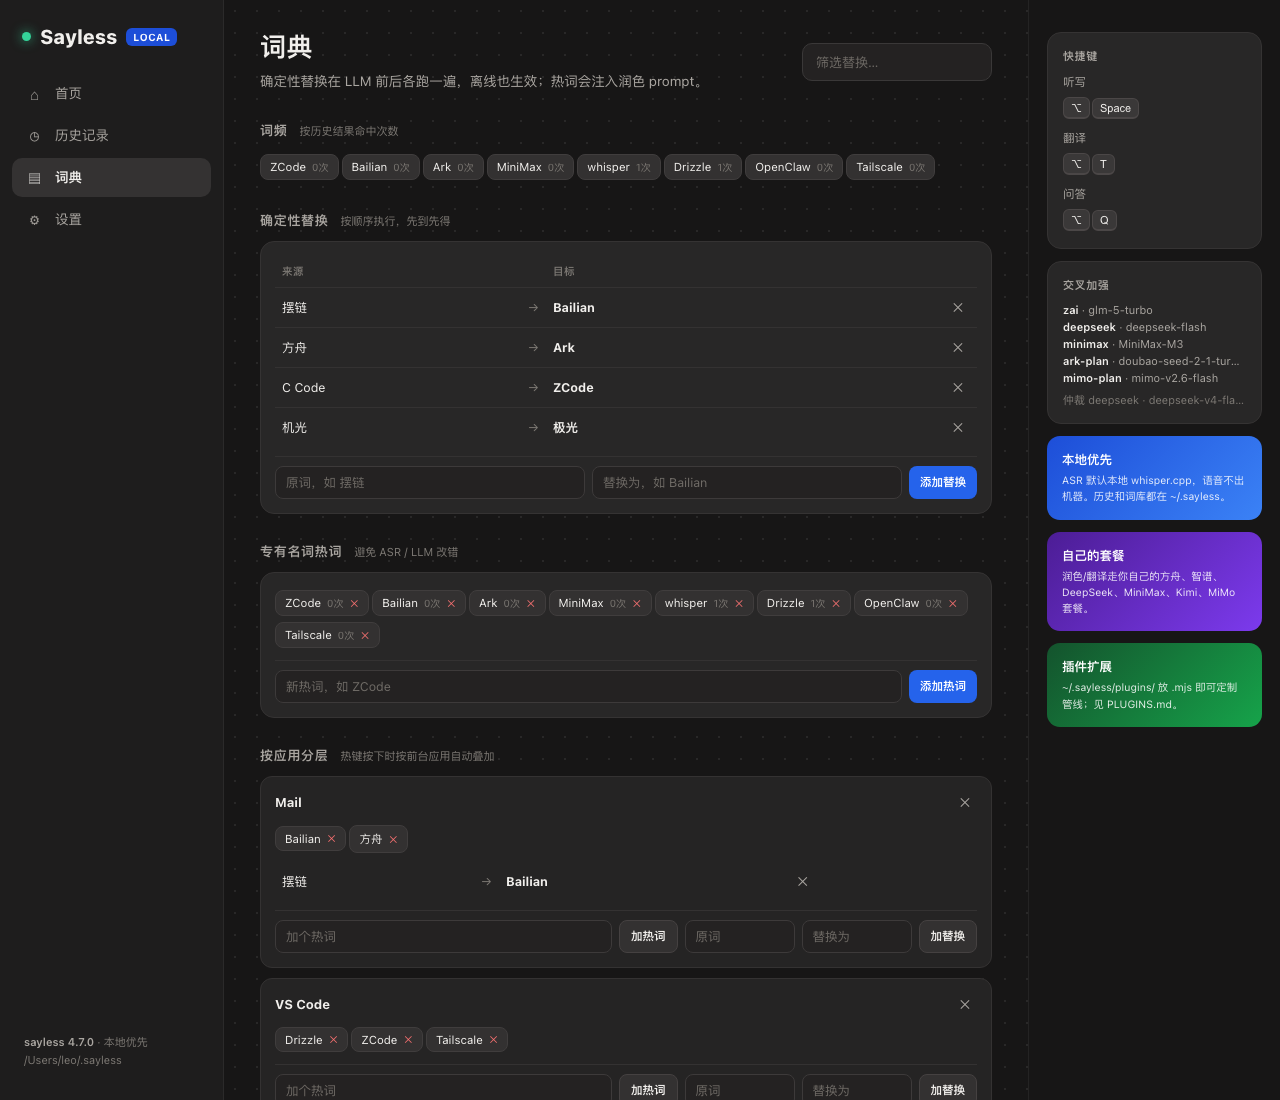
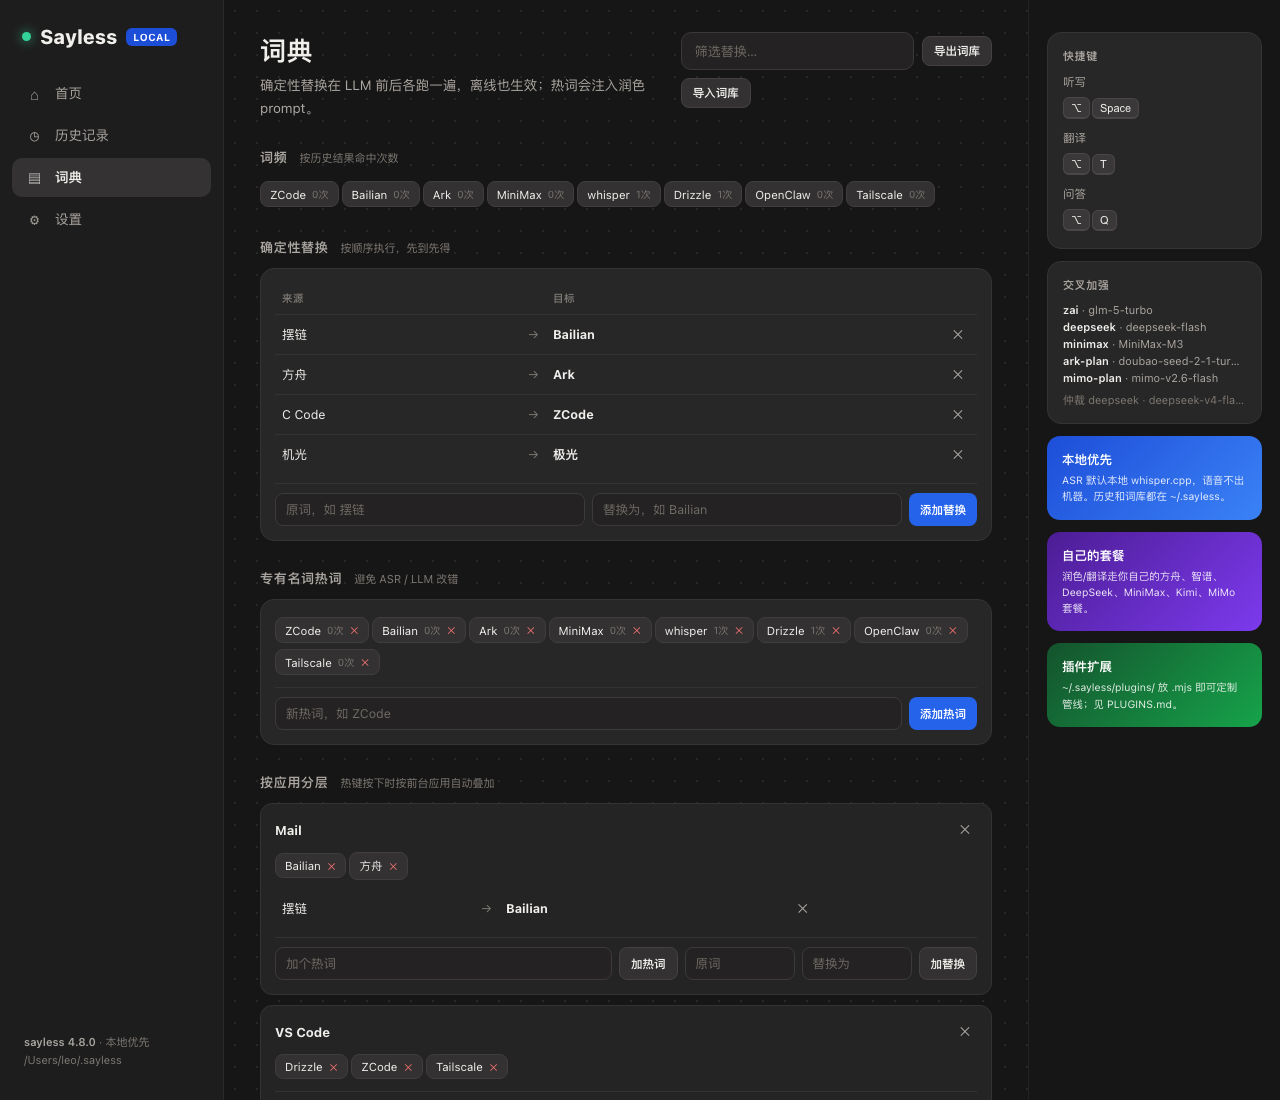
v4.8.0: dictionary/history import-export, JSON dict import
- hub: dictionary export/import (JSON, merge, validation via native file panels) and full-history export
- hub: import/export use native hubActionResult; invalid/cancelled writes never fake success
- CLI: sayless dict import auto-detects JSON and merges with validation; text import unchanged
- tests: 70 integration tests incl. JSON dictionary import and hub import/export buttons
- docs/screenshots/version 4.8.0

diff --git a/app/SaylessBar.swift b/app/SaylessBar.swift
@@ -1,4 +1,4 @@
-// SaylessBar v4.7 — Typeless 式 UI：菜单栏 + 录音胶囊浮窗 + 数据驱动 hub（首页/历史/词典/设置）。
+// SaylessBar v4.8 — Typeless 式 UI：菜单栏 + 录音胶囊浮窗 + 数据驱动 hub（首页/历史/词典/设置）。
 // 设计：暗色 HUD 胶囊 440×52 底部居中；录音=实时 15 根电平条；处理=Thinking；完成=✓+文本预览自隐。
 import AppKit
 import Carbon.HIToolbox
@@ -7,6 +7,7 @@ import WebKit
 import ApplicationServices
 import ServiceManagement
 import UserNotifications
+import UniformTypeIdentifiers
 
 
 
@@ -327,7 +328,7 @@ final class CapsulePanel {
 
 
 // ---------- 共享路径 / 工具 ----------
-let appVersion = (Bundle.main.infoDictionary?["CFBundleShortVersionString"] as? String) ?? "4.7.0"
+let appVersion = (Bundle.main.infoDictionary?["CFBundleShortVersionString"] as? String) ?? "4.8.0"
 let functionKeyCodes: Set<UInt32> = [122, 120, 99, 118, 96, 97, 98, 100, 101, 109, 103, 111] // F1-F12
 let saylessConfigFile = saylessDataDir + "/config.json"
 let saylessDictFile = saylessDataDir + "/dictionary.json"
@@ -852,6 +853,146 @@ final class HubWindow: NSObject {
         DispatchQueue.main.asyncAfter(deadline: .now() + delay) { [weak self] in self?.refresh() }
     }
 
+    private func dateStamp() -> String {
+        let f = DateFormatter()
+        f.locale = Locale(identifier: "en_US_POSIX")
+        f.dateFormat = "yyyy-MM-dd"
+        return f.string(from: Date())
+    }
+
+    private func askSaveURL(title: String, defaultName: String) -> URL? {
+        let panel = NSSavePanel()
+        panel.title = title
+        panel.nameFieldStringValue = defaultName
+        panel.allowedContentTypes = [.json]
+        panel.canCreateDirectories = true
+        NSApp.activate(ignoringOtherApps: true)
+        return panel.runModal() == .OK ? panel.url : nil
+    }
+
+    private func askOpenURL(title: String) -> URL? {
+        let panel = NSOpenPanel()
+        panel.title = title
+        panel.allowedContentTypes = [.json]
+        panel.allowsMultipleSelection = false
+        panel.canChooseDirectories = false
+        panel.canChooseFiles = true
+        NSApp.activate(ignoringOtherApps: true)
+        return panel.runModal() == .OK ? panel.url : nil
+    }
+
+    private func exportDictionary() -> (Bool, String) {
+        guard FileManager.default.fileExists(atPath: saylessDictFile) else { return (false, "词库文件不存在") }
+        guard let url = askSaveURL(title: "导出词库", defaultName: "sayless-dictionary-\(dateStamp()).json") else {
+            return (false, "已取消导出")
+        }
+        guard let data = FileManager.default.contents(atPath: saylessDictFile) else { return (false, "读取词库失败") }
+        guard writeData(data, to: url.path) else { return (false, "写入导出文件失败") }
+        return (true, "已导出词库 → \(url.lastPathComponent)")
+    }
+
+    private func exportHistory() -> (Bool, String) {
+        guard let url = askSaveURL(title: "导出听写历史", defaultName: "sayless-history-\(dateStamp()).json") else {
+            return (false, "已取消导出")
+        }
+        let entries = readHistoryObjects()
+        guard JSONSerialization.isValidJSONObject(entries),
+              let data = try? JSONSerialization.data(withJSONObject: entries, options: [.prettyPrinted, .sortedKeys]) else {
+            return (false, "序列化历史失败")
+        }
+        guard writeData(data, to: url.path) else { return (false, "写入导出文件失败") }
+        return (true, "已导出 \(entries.count) 条历史 → \(url.lastPathComponent)")
+    }
+
+    private func validateDictionary(_ src: [String: Any]) -> String? {
+        let known = ["replacements", "hotwords", "styleRules", "apps"]
+        guard known.contains(where: { src[$0] != nil }) else { return "不是 sayless 词库 JSON（缺少 replacements/hotwords/styleRules/apps）" }
+        if let raw = src["replacements"] {
+            guard let arr = raw as? [[String: Any]] else { return "replacements 必须是对象数组" }
+            for (i, r) in arr.enumerated() {
+                guard let to = r["to"] as? String else { return "replacements[\(i)] 缺少字符串 to" }
+                _ = to
+                if let from = r["from"] as? String, !from.isEmpty { continue }
+                if let pattern = r["pattern"] as? String, !pattern.isEmpty {
+                    if (try? NSRegularExpression(pattern: pattern)) == nil { return "replacements[\(i)] 正则无效：\(pattern)" }
+                    continue
+                }
+                return "replacements[\(i)] 需要非空 from 或 pattern"
+            }
+        }
+        if let raw = src["hotwords"], !(raw is [String]) { return "hotwords 必须是字符串数组" }
+        if let raw = src["styleRules"], !(raw is [String]) { return "styleRules 必须是字符串数组" }
+        if let raw = src["apps"] {
+            guard let apps = raw as? [String: Any] else { return "apps 必须是对象" }
+            for (app, value) in apps {
+                guard let layer = value as? [String: Any] else { return "apps.\(app) 必须是对象" }
+                if let h = layer["hotwords"], !(h is [String]) { return "apps.\(app).hotwords 必须是字符串数组" }
+                if let rules = layer["styleRules"], !(rules is [String]) { return "apps.\(app).styleRules 必须是字符串数组" }
+                if let reps = layer["replacements"], !(reps is [[String: Any]]) { return "apps.\(app).replacements 必须是对象数组" }
+            }
+        }
+        return nil
+    }
+
+    private func mergeDictionary(_ dst: inout [String: Any], _ src: [String: Any]) -> (rep: Int, hot: Int, rules: Int, apps: Int) {
+        var rep = 0, hot = 0, rules = 0, appsChanged = 0
+        var existingReps = (dst["replacements"] as? [[String: Any]]) ?? []
+        for r in (src["replacements"] as? [[String: Any]]) ?? [] {
+            let key = (r["from"] as? String) ?? (r["pattern"] as? String) ?? ""
+            existingReps.removeAll { (($0["from"] as? String) ?? ($0["pattern"] as? String) ?? "") == key }
+            existingReps.append(r)
+            rep += 1
+        }
+        dst["replacements"] = existingReps
+        var existingHot = (dst["hotwords"] as? [String]) ?? []
+        for w in (src["hotwords"] as? [String]) ?? [] where !existingHot.contains(w) {
+            existingHot.append(w); hot += 1
+        }
+        dst["hotwords"] = existingHot
+        var existingRules = (dst["styleRules"] as? [String]) ?? []
+        for rule in (src["styleRules"] as? [String]) ?? [] where !existingRules.contains(rule) {
+            existingRules.append(rule); rules += 1
+        }
+        dst["styleRules"] = existingRules
+        var dstApps = (dst["apps"] as? [String: Any]) ?? [:]
+        for (app, value) in (src["apps"] as? [String: Any]) ?? [:] {
+            guard let srcLayer = value as? [String: Any] else { continue }
+            var layer = (dstApps[app] as? [String: Any]) ?? [:]
+            var layerReps = (layer["replacements"] as? [[String: Any]]) ?? []
+            for r in (srcLayer["replacements"] as? [[String: Any]]) ?? [] {
+                let key = (r["from"] as? String) ?? (r["pattern"] as? String) ?? ""
+                layerReps.removeAll { (($0["from"] as? String) ?? ($0["pattern"] as? String) ?? "") == key }
+                layerReps.append(r)
+            }
+            layer["replacements"] = layerReps
+            var layerHot = (layer["hotwords"] as? [String]) ?? []
+            for w in (srcLayer["hotwords"] as? [String]) ?? [] where !layerHot.contains(w) { layerHot.append(w) }
+            layer["hotwords"] = layerHot
+            var layerRules = (layer["styleRules"] as? [String]) ?? []
+            for rule in (srcLayer["styleRules"] as? [String]) ?? [] where !layerRules.contains(rule) { layerRules.append(rule) }
+            layer["styleRules"] = layerRules
+            dstApps[app] = layer
+            appsChanged += 1
+        }
+        dst["apps"] = dstApps
+        return (rep, hot, rules, appsChanged)
+    }
+
+    private func importDictionary() -> (Bool, String) {
+        guard let url = askOpenURL(title: "导入词库（合并）") else { return (false, "已取消导入") }
+        guard let data = try? Data(contentsOf: url),
+              let obj = (try? JSONSerialization.jsonObject(with: data)) as? [String: Any] else {
+            return (false, "导入文件不是合法 JSON 对象")
+        }
+        if let err = validateDictionary(obj) { return (false, err) }
+        guard var dst = writableJSON(saylessDictFile) else {
+            return (false, "dictionary.json 已损坏，拒绝覆盖；请先修复或备份")
+        }
+        let counts = mergeDictionary(&dst, obj)
+        guard writeJSONObject(dst, to: saylessDictFile) else { return (false, "写入词库失败（检查权限）") }
+        return (true, "已合并：\(counts.rep) 替换 / \(counts.hot) 热词 / \(counts.rules) 规则 / \(counts.apps) 应用层")
+    }
+
     /// 首次使用：在 App 内运行内置 CLI 的 init，生成 config.json / dictionary.json
     private func runInitConfig() {
         guard !initializingConfig else { return }
@@ -1174,6 +1315,19 @@ extension HubWindow: WKScriptMessageHandler {
             } else {
                 reply(false, "历史写入失败（检查 history.jsonl 权限）")
             }
+
+        case "exportDict":
+            let r = exportDictionary()
+            reply(r.0, r.1)
+
+        case "importDict":
+            let r = importDictionary()
+            reply(r.0, r.1)
+            if r.0 { scheduleRefresh() }
+
+        case "exportHistory":
+            let r = exportHistory()
+            reply(r.0, r.1)
 
         case "runDoctor":
             runDoctor()

diff --git a/app/hub.html b/app/hub.html
@@ -324,7 +324,10 @@ kbd{display:inline-block;background:#3a3838;border:1px solid #4b4747;border-bott
   <div class="tab" id="t1">
     <div class="page-head">
       <div><h1 class="small">历史记录</h1><div class="sub">听写、翻译和问答结果都只保存在本机。</div></div>
-      <button class="btn ghost mini" data-act="clear-history">清空历史</button>
+      <div style="display:flex;gap:8px;flex-wrap:wrap">
+        <button class="btn ghost mini" data-act="export-history">导出历史</button>
+        <button class="btn ghost mini" data-act="clear-history">清空历史</button>
+      </div>
     </div>
     <div class="toolbar">
       <input class="search" id="hist-search" placeholder="搜索原文、结果、应用或模式…" autocomplete="off">
@@ -337,7 +340,11 @@ kbd{display:inline-block;background:#3a3838;border:1px solid #4b4747;border-bott
   <div class="tab" id="t2">
     <div class="page-head">
       <div><h1 class="small">词典</h1><div class="sub">确定性替换在 LLM 前后各跑一遍，离线也生效；热词会注入润色 prompt。</div></div>
-      <div class="dict-tools"><input class="search" id="dict-filter" placeholder="筛选替换…" style="min-width:190px"></div>
+      <div class="dict-tools">
+        <input class="search" id="dict-filter" placeholder="筛选替换…" style="min-width:190px">
+        <button class="btn ghost mini" data-act="export-dict">导出词库</button>
+        <button class="btn ghost mini" data-act="import-dict">导入词库</button>
+      </div>
     </div>
 
     <h2 class="sec">词频 <span class="note">按历史结果命中次数</span></h2>
@@ -1265,6 +1272,9 @@ document.addEventListener('click', function (e) {
   if (act === 'save-settings') return saveSettings();
   if (act === 'save-key') return saveKey();
   if (act === 'run-doctor') return runDoctor();
+  if (act === 'export-dict') { post({ action: 'exportDict' }); return; }
+  if (act === 'import-dict') { post({ action: 'importDict' }); return; }
+  if (act === 'export-history') { post({ action: 'exportHistory' }); return; }
   if (act === 'add-cross') {
     var models = collectCross(); models.push({ provider: PROVIDERS[0] || '', model: '' }); renderCross(models); return;
   }

diff --git a/README.md b/README.md
@@ -2,7 +2,7 @@
 
 > ⚠ **声明**：本项目是对 Typeless 应用进行**逆向工程的学习项目**，交互形态按 1:1 复刻仅作学习研究之用，**切勿用于任何商业用途**（详见 [LICENSE](LICENSE)）。与 Typeless 原开发者无任何隶属或授权关系。
 
-**本地优先的中文语音听写 / 翻译 / 问答管线**——录音 → 语音识别 → 词语库 → 多模型润色 → 粘贴进焦点应用，配上一个 Typeless 风格的菜单栏 App。当前版本 **v4.7.0**（见 [CHANGELOG](CHANGELOG.md)）。
+**本地优先的中文语音听写 / 翻译 / 问答管线**——录音 → 语音识别 → 词语库 → 多模型润色 → 粘贴进焦点应用，配上一个 Typeless 风格的菜单栏 App。当前版本 **v4.8.0**（见 [CHANGELOG](CHANGELOG.md)）。
 
 干净的自研实现（不含任何第三方听写应用代码），模型走**你自己的套餐**，词语库和听写历史全部本地。
 
@@ -129,7 +129,7 @@ SAYLESS_SIGN=adhoc BUILD_ONLY=1 ./build.sh   # 跳过钥匙串里的持久证书
 | `sayless ask "<问题>"` | Bing CN + DuckDuckGo 检索 → 带 [n] 引用的回答；`--say` 先录音，`--no-search` 跳过联网 |
 | `sayless transcribe <wav>` | 转写→润色→粘贴，App 外壳复用此命令；`--force` 绕过短语音守卫 |
 | `sayless insert "<text>"` | 手动粘贴任意文本进焦点应用（默认 1.6s 后恢复剪贴板） |
-| `sayless dict add\|del\|add-hot\|del-hot\|import\|stats\|export\|validate` | 词语库管理；`import` 支持每行 `a=>b` 或纯热词；`app-add-hot` / `app-add-replace` 管理分应用词层 |
+| `sayless dict add\|del\|add-hot\|del-hot\|import\|stats\|export\|validate` | 词语库管理；`import` 支持每行 `a=>b`、纯热词，或 `dict export` 产出的 JSON（自动合并）；`app-add-hot` / `app-add-replace` 管理分应用词层 |
 | `sayless learn "<原文>" "<改稿>"` | LCS 智能 diff 自动生成替换规则；`--last` 对比上一条；`--mine [--apply]` 挖掘并回写高频修正；`--dry-run` 不落盘 |
 | `sayless history [-n 20] [--json] [--search q] [--delete n\|ts] [--clear --force] [--export file]` | 历史查看、搜索、删除、清空、导出 |
 | `sayless stats [--json]` | 口述字数/条数/活跃天/连续天/模式与 app 分布/录音归档大小 |
@@ -267,7 +267,7 @@ flowchart LR
 ## 开发与测试
 
 ```sh
-npm test                     # 69 个 Node 集成测试：CLI 管线 / 交叉投票 / 重试 / 词典 / learn / history / hub
+npm test                     # 70 个 Node 集成测试：CLI 管线 / 交叉投票 / 重试 / 词典 / learn / history / hub
 npm run check                # node --check + 完整测试
 BUILD_ONLY=1 ./app/build.sh  # 只编译打包 App（不装 /Applications、不启动）
 node tools/gen-hub-demo.mjs /tmp/hub-demo  # Chrome headless 渲染 hub 四页截图 + DOM js-error 检查

diff --git a/CHANGELOG.md b/CHANGELOG.md
@@ -1,5 +1,25 @@
 # Changelog
 
+## v4.8.0 (2026-10-21)
+
+以「数据可携带 + 维护体验」为主的下一轮迭代。
+
+### Hub
+
+- **词典导入/导出**：词典页新增「导出词库」「导入词库」；导出保留完整 JSON（0600），导入走 NSOpenPanel、校验结构后**合并**（替换按 from/pattern 去重，热词/规则去重，分应用层合并），成功后提示数量并刷新。
+- **历史导出**：历史页新增「导出历史」，把全部历史（不受 hub 1000 条显示上限影响）导出为格式化 JSON。
+- 导入/导出复用 native `hubActionResult`，失败（坏 JSON/权限/取消）不会假成功。
+
+### CLI
+
+- `sayless dict import` 自动识别 JSON：接受 `dict export` 产物或任意合法词库 JSON，按同一规则合并；坏 JSON/结构错误 exit 2。
+- 文本导入（`a=>b` / 纯热词）保持兼容。
+
+### Tests / Docs
+
+- 70 个 Node 集成测试（新增 JSON 词典导入、hub 导入导出按钮覆盖）。
+- README/CHANGELOG/截图更新到 4.8.0。
+
 ## v4.7.0 (2026-10-21)
 
 以「操作结果可信、权限提示、首页可观测性」为主的下一轮全栈迭代。
